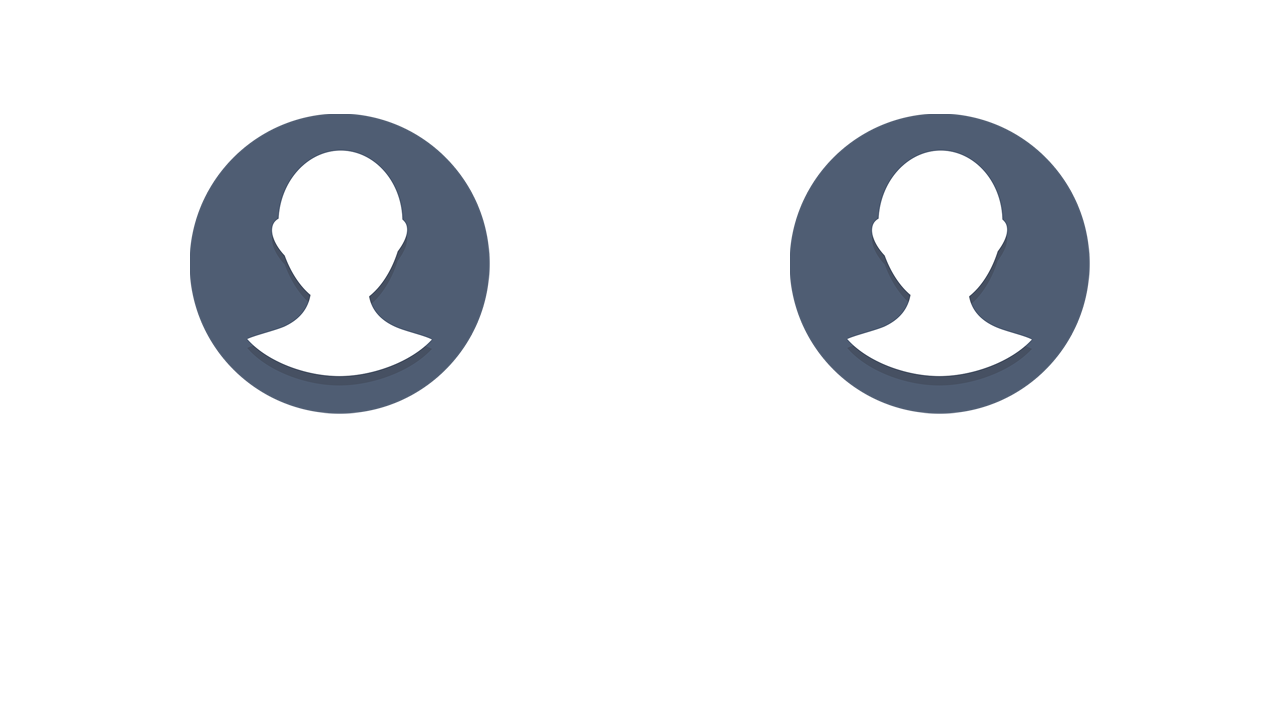
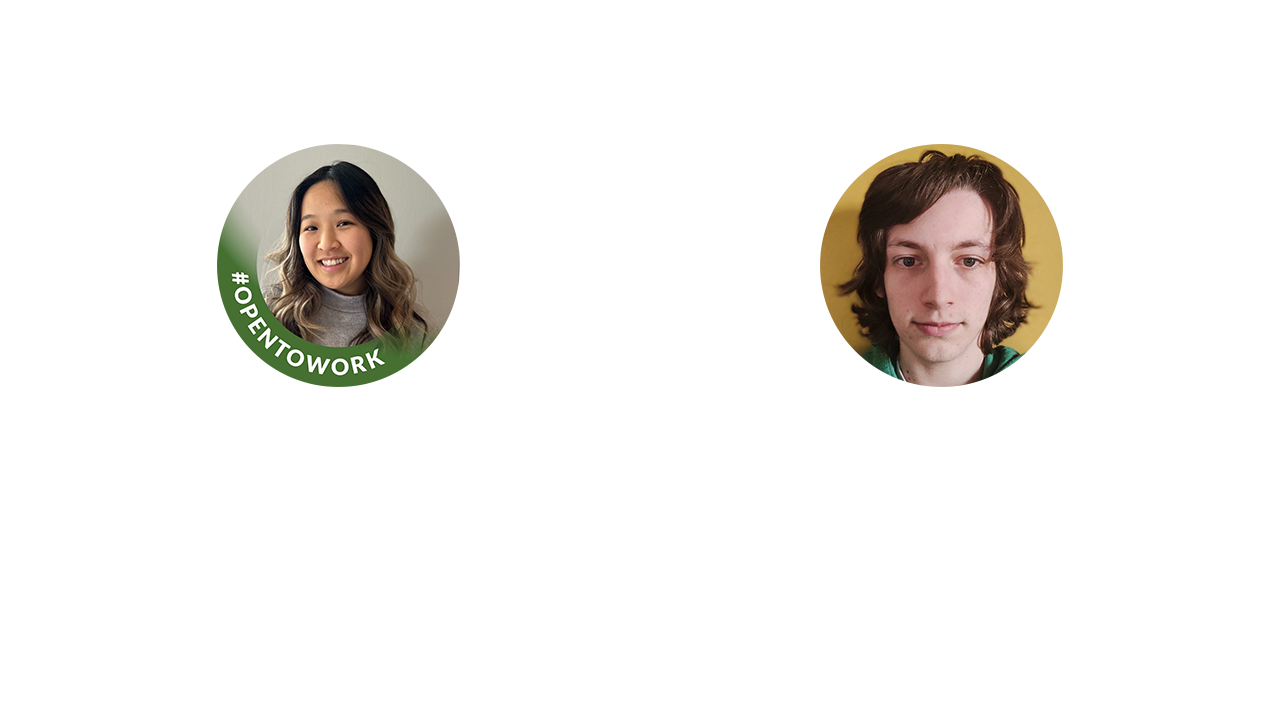
rajout dans crédit

Changed region(s): [[0.5938, 0.1528, 0.875, 0.5806], [0.125, 0.1528, 0.4062, 0.5806]]

diff --git a/Asteroid/main.py b/Asteroid/main.py
@@ -15,6 +15,9 @@ from Asteroid.ship import Ship
 
 # from Asteroid.son import Son
 
+#FAIRE ANNEE DANS CREDIT, logo ecole why not ? , linkedin, asté en icon, install police
+
+
 
 def setup():
     # 1280, 720
@@ -37,12 +40,13 @@ def setup():
                 core.Texture("./Asset/SoundOff.png", Vector2(1210, (core.WINDOW_SIZE[1] / 2) + 290), 0, [50, 50]))
     core.memory("Son", 1)
     core.memory("Regles", core.Texture("./Asset/Regles.png", Vector2(-60, 0), 0, [1400, 787]))
-    core.memory("ReglesOK", 0)
+    core.memory("ReglesOK", 1)
     core.memory("Info", core.Texture("./Asset/Info.png", Vector2(1210, 20), 0, [60, 60]))
     core.memory("Vie3", core.Texture("./Asset/Vie.png", Vector2(1100, 10),0,[60, 60]))
     core.memory("Vie2", core.Texture("./Asset/Vie.png", Vector2(1155, 10), 0, [60, 60]))
     core.memory("Vie1", core.Texture("./Asset/Vie.png", Vector2(1210, 10), 0, [60, 60]))
     core.memory("Credit", core.Texture("./Asset/Credit.png", Vector2(0, 0), 0, [1280, 720]))
+    #core.memory("IMGAst", core.Texture("./Asset/ASTEROID.png",Vector2(0, 0), 0, [1280, 720]))
     core.memory("mesProjectiles", [])
     core.memory("mesAsteroides", [])
     #core.memory('monVaisseau',[v])
@@ -197,6 +201,8 @@ def afficherDemarrage():
 
 
 def afficherJeu():
+
+    #ecran = pygame.display.set_mode((core.WINDOW_SIZE))
     if core.getKeyPressList("p"):
         core.memory("etat", Etat.MENU)
 
@@ -244,8 +250,6 @@ def afficherJeu():
                 core.memory('mesProjectiles').remove(p)
                 core.memory('mesAsteroides').remove(a)
                 core.memory('total',Tt)
-
-
 #collision vaisseau
     for a in core.memory('mesAsteroides'):
         result = a.destruction(core.memory("Vaisseau"))
@@ -352,8 +356,8 @@ def afficherCredit():
     core.memory("Credit").show()
     core.cleanScreen()
 
-    core.Draw.text((255, 255, 255), "Meilleur Score : 7000", ((core.WINDOW_SIZE[0] / 2)-510, (core.WINDOW_SIZE[1] / 2)+135), 40,'Cooper Black')
-    core.Draw.text((255, 255, 255), "Meilleur Score : 7000",((core.WINDOW_SIZE[0] / 2) +90, (core.WINDOW_SIZE[1] / 2) + 135), 40, 'Cooper Black')
+    core.Draw.text((255, 255, 255), "Meilleur Score : 7000", ((core.WINDOW_SIZE[0] / 2)-465, (core.WINDOW_SIZE[1] / 2)+140), 30,'Cooper Black')
+    core.Draw.text((255, 255, 255), "Meilleur Score : 7000",((core.WINDOW_SIZE[0] / 2) +140, (core.WINDOW_SIZE[1] / 2) + 140), 30, 'Cooper Black')
 
 
 def run():

diff --git a/Asteroid/asteroide.py b/Asteroid/asteroide.py
@@ -1,6 +1,7 @@
 import random
 
-from pygame import Vector2
+import pygame
+from pygame import Vector2, image
 
 import core
 
@@ -13,8 +14,6 @@ class Asteroide:
         self.Vmax = 2
         self.Accmax = 2
         self.position = Vector2(x,y)
-
-
     def deplacement(self):
         if self.acc.length() > self.Accmax:
             self.acc.scale_to_length(self.Accmax)
@@ -27,6 +26,7 @@ class Asteroide:
 
     def show(self):
         core.Draw.circle((255,255,255),self.position,self.taille,5)
+
         #core.Draw.rect((100,0,120),(self.position.x-15, self.position.y-15,30,30))
 
 

diff --git a/Asteroid/map.py b/Asteroid/map.py
@@ -18,6 +18,7 @@ class Map:
         core.Draw.rect((0, 0, 255), (0, 0, 1280, 10))
         core.Draw.rect((0, 0, 255), (1270, 0, 10, 720))
         core.Draw.rect((0, 0, 255), (0, 710, 1280, 10))
+
         #RecTeleportation = Rect((0,0,255),(0, 0,10,720)
 
 

diff --git a/core.py b/core.py
@@ -391,3 +391,5 @@ class Texture:
                 core.screen.blit(rotated_image, new_rect)
 
 
+def ecran():
+    return None
